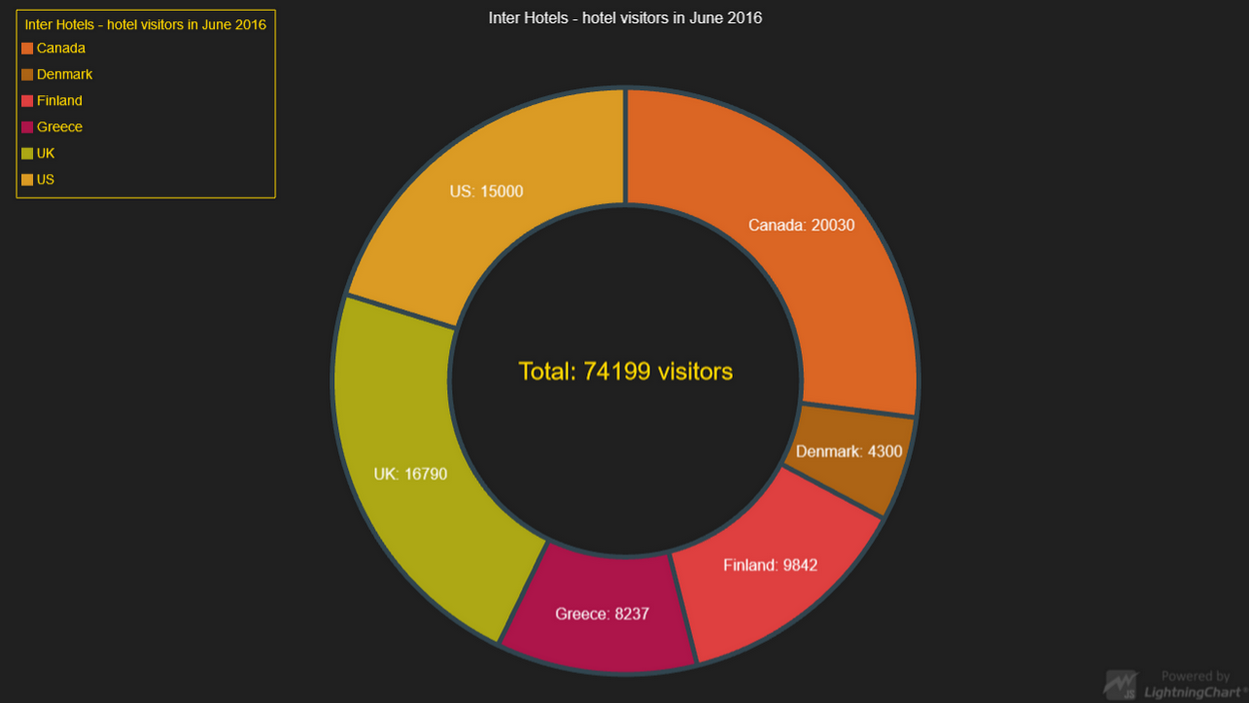
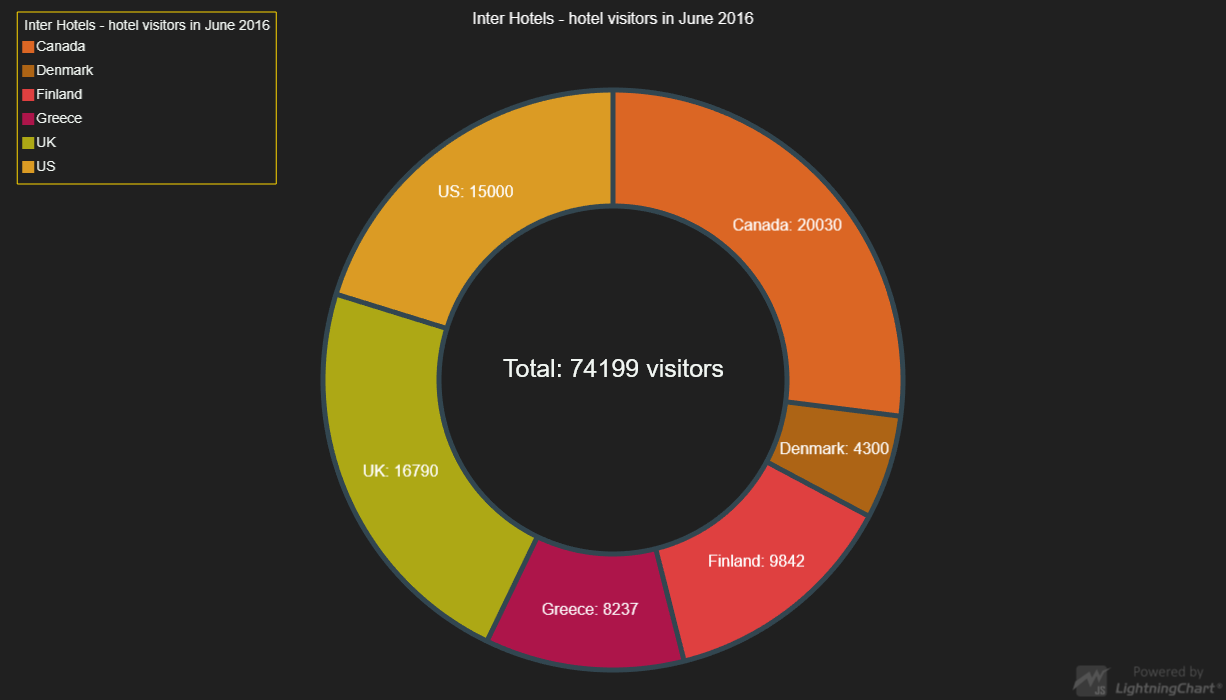
LCJS 2.0.0

diff --git a/src/index.js b/src/index.js
@@ -16,10 +16,14 @@ const {
     UIDraggingModes,
     SolidFillPalette,
     SliceLabelFormatters,
-    UIOrigins
+    UIOrigins,
+    Themes
 } = lcjs
 
-const donut = lightningChart().Pie({ type: PieChartTypes.LabelsInsideSlices })
+const donut = lightningChart().Pie({
+    // theme: Themes.dark 
+    type: PieChartTypes.LabelsInsideSlices
+})
     .setTitle('Inter Hotels - hotel visitors in June 2016')
     .setPadding({ top: 40 })
     .setAnimationsEnabled(true)

diff --git a/README.md b/README.md
@@ -96,12 +96,12 @@ chart.setSliceStrokeStyle( customStrokeStyle )
 
 ## API Links
 
-* Pie chart: [PieChart]
-* Pie Slice label formatter: [SliceLabelFormatter]
-* Color Palette: [Palette]
-* Solid Fill Palette: [SolidFillPalette]
-* Solid Line: [SolidLine]
-* Solid Fill: [SolidFill]
+* [Pie chart]
+* [Pie Slice label formatter]
+* [Color Palette]
+* [Solid Fill Palette]
+* [Solid Line]
+* [Solid Fill]
 
 
 ## Support
@@ -125,10 +125,10 @@ Direct developer email support can be purchased through a [Support Plan][4] or b
 © Arction Ltd 2009-2020. All rights reserved.
 
 
-[PieChart]: https://www.arction.com/lightningchart-js-api-documentation/v1.3.0/classes/piechart.html
-[SliceLabelFormatter]: https://www.arction.com/lightningchart-js-api-documentation/v1.3.0/globals.html#slicelabelformatter
-[Palette]: https://www.arction.com/lightningchart-js-api-documentation/v1.3.0/globals.html#palette
-[SolidFillPalette]: https://www.arction.com/lightningchart-js-api-documentation/v1.3.0/globals.html#solidfillpalette
-[SolidLine]: https://www.arction.com/lightningchart-js-api-documentation/v1.3.0/classes/solidline.html
-[SolidFill]: https://www.arction.com/lightningchart-js-api-documentation/v1.3.0/classes/solidfill.html
+[Pie chart]: https://www.arction.com/lightningchart-js-api-documentation/v2.0.0/classes/piechart.html
+[Pie Slice label formatter]: https://www.arction.com/lightningchart-js-api-documentation/v2.0.0/globals.html#slicelabelformatter
+[Color Palette]: https://www.arction.com/lightningchart-js-api-documentation/v2.0.0/globals.html#palette
+[Solid Fill Palette]: https://www.arction.com/lightningchart-js-api-documentation/v2.0.0/globals.html#solidfillpalette
+[Solid Line]: https://www.arction.com/lightningchart-js-api-documentation/v2.0.0/classes/solidline.html
+[Solid Fill]: https://www.arction.com/lightningchart-js-api-documentation/v2.0.0/classes/solidfill.html
 
